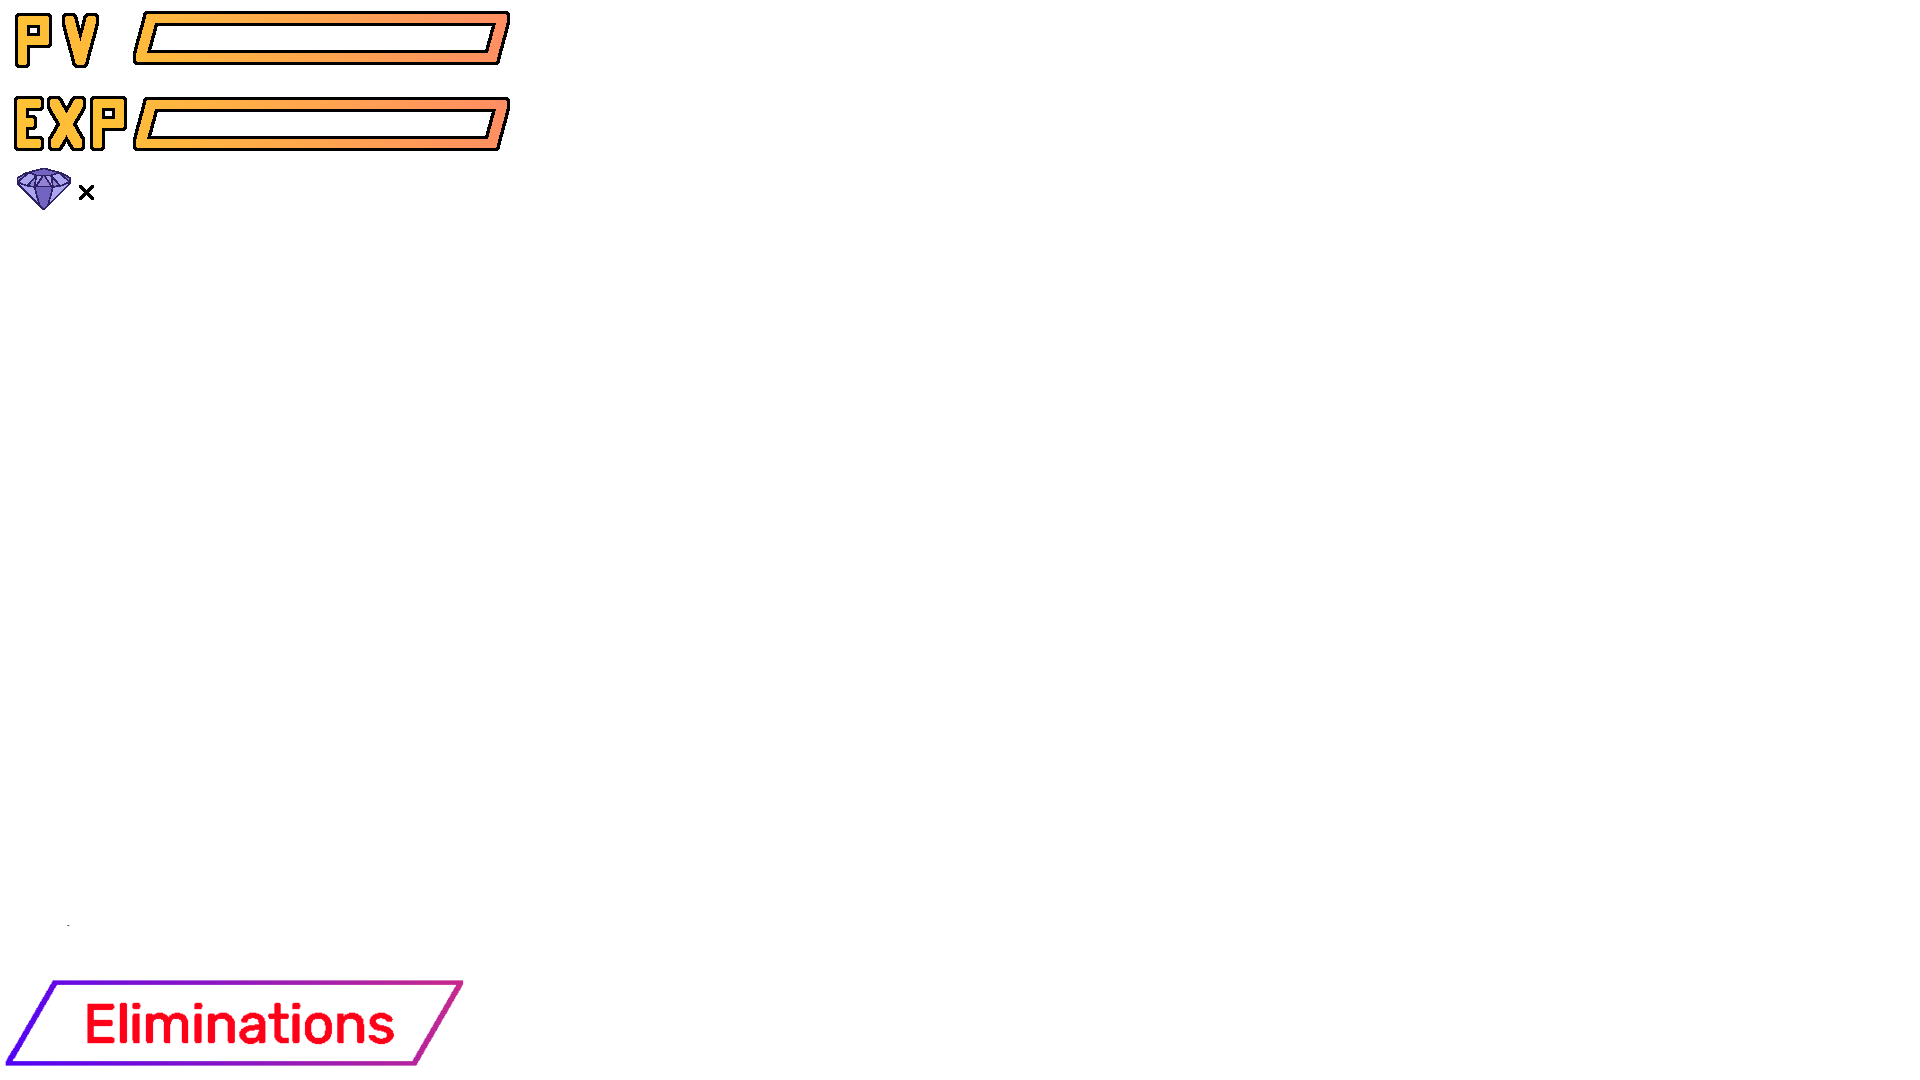
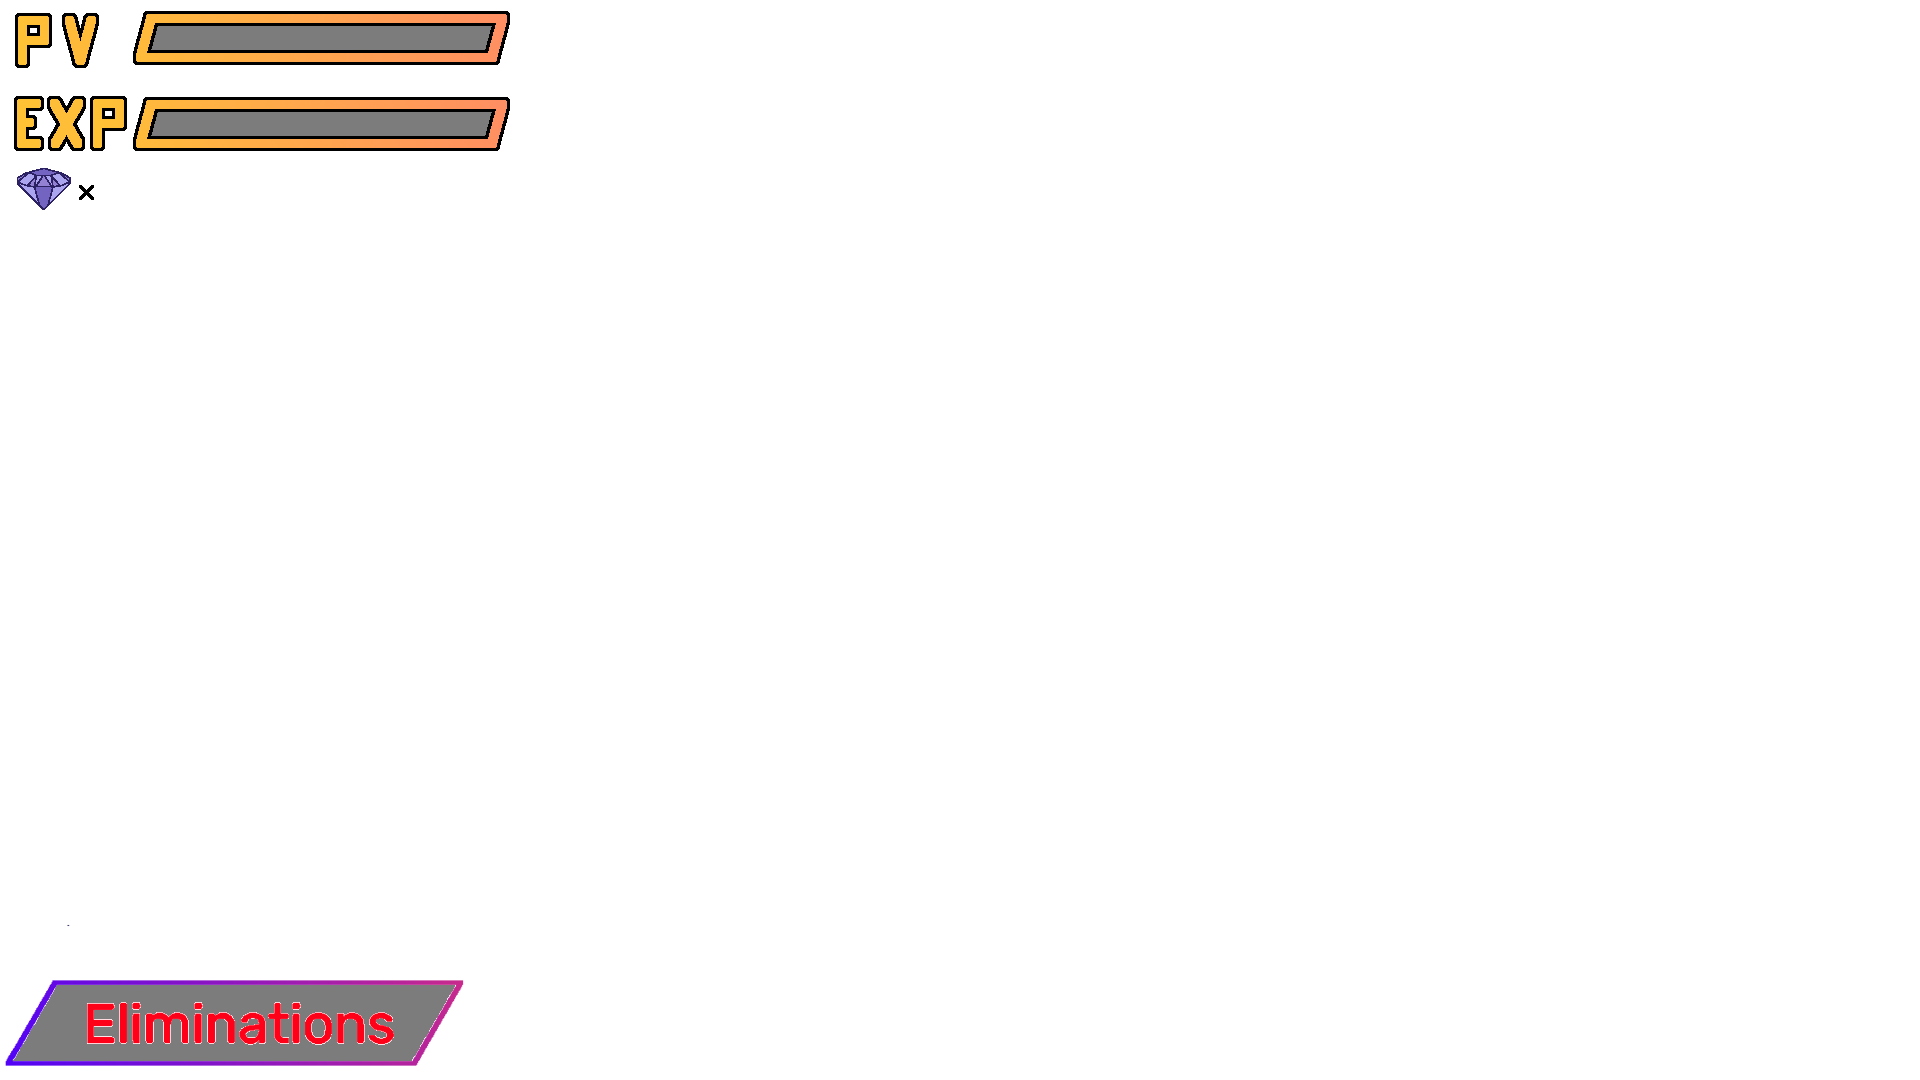
Hud

Changed region(s): [[0.0, 0.8861, 0.25, 1.0], [0.0625, 0.0917, 0.25, 0.1528], [0.0625, 0.0, 0.25, 0.0611]]

diff --git a/JeuSAE/MainWindow.xaml b/JeuSAE/MainWindow.xaml
@@ -19,7 +19,7 @@
 
     <Canvas
         Name="monCanvas"
-        Background="Black"
+        Background="White"
         Focusable="True"
         KeyDown="CanvasKeyIsDown"
         KeyUp="CanvasKeyIsUp"
@@ -54,11 +54,17 @@
             Height="10752" />
 
         <Image
+            x:Name="imageHUD"
             Canvas.Top="0"
             Width="{x:Static SystemParameters.PrimaryScreenWidth}"
             Height="{x:Static SystemParameters.PrimaryScreenHeight}"
             Panel.ZIndex="50"
-            Source="images/HUD.png" />
+            Source="images/HUD.png"
+            Stretch="Fill" />
+        <Label
+            x:Name="labDiamant"
+            Panel.ZIndex="50"
+            Content="200" HorizontalAlignment="Center" Canvas.Top="132" VerticalAlignment="Top" Canvas.Left="76" FontSize="36" />
     </Canvas>
 
 </Window>
